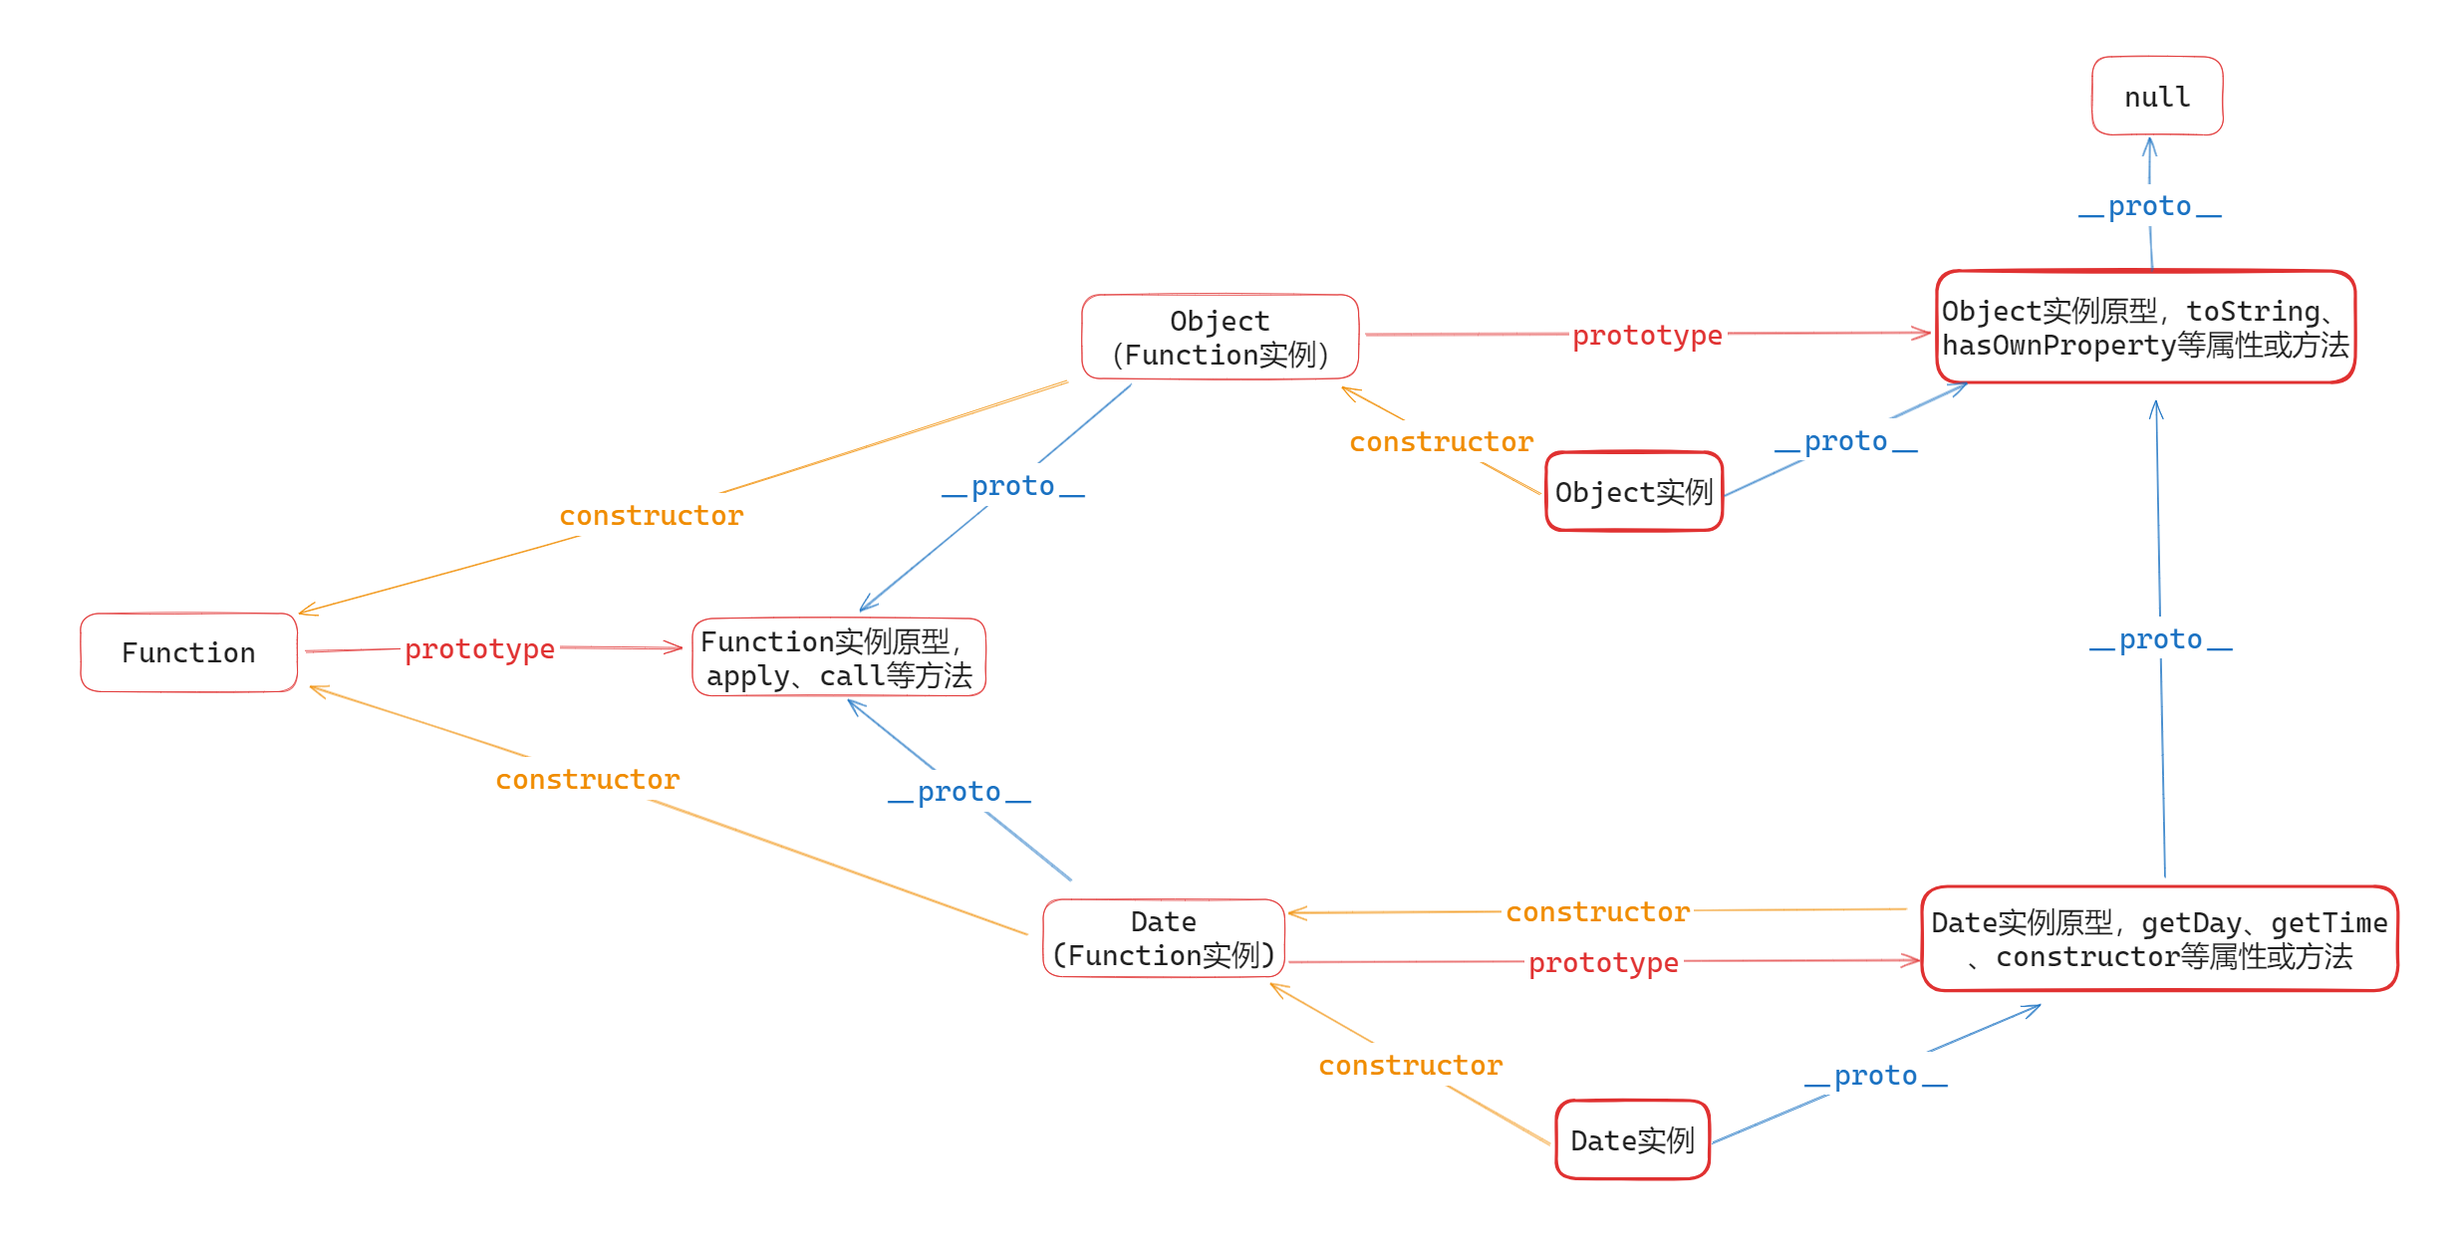
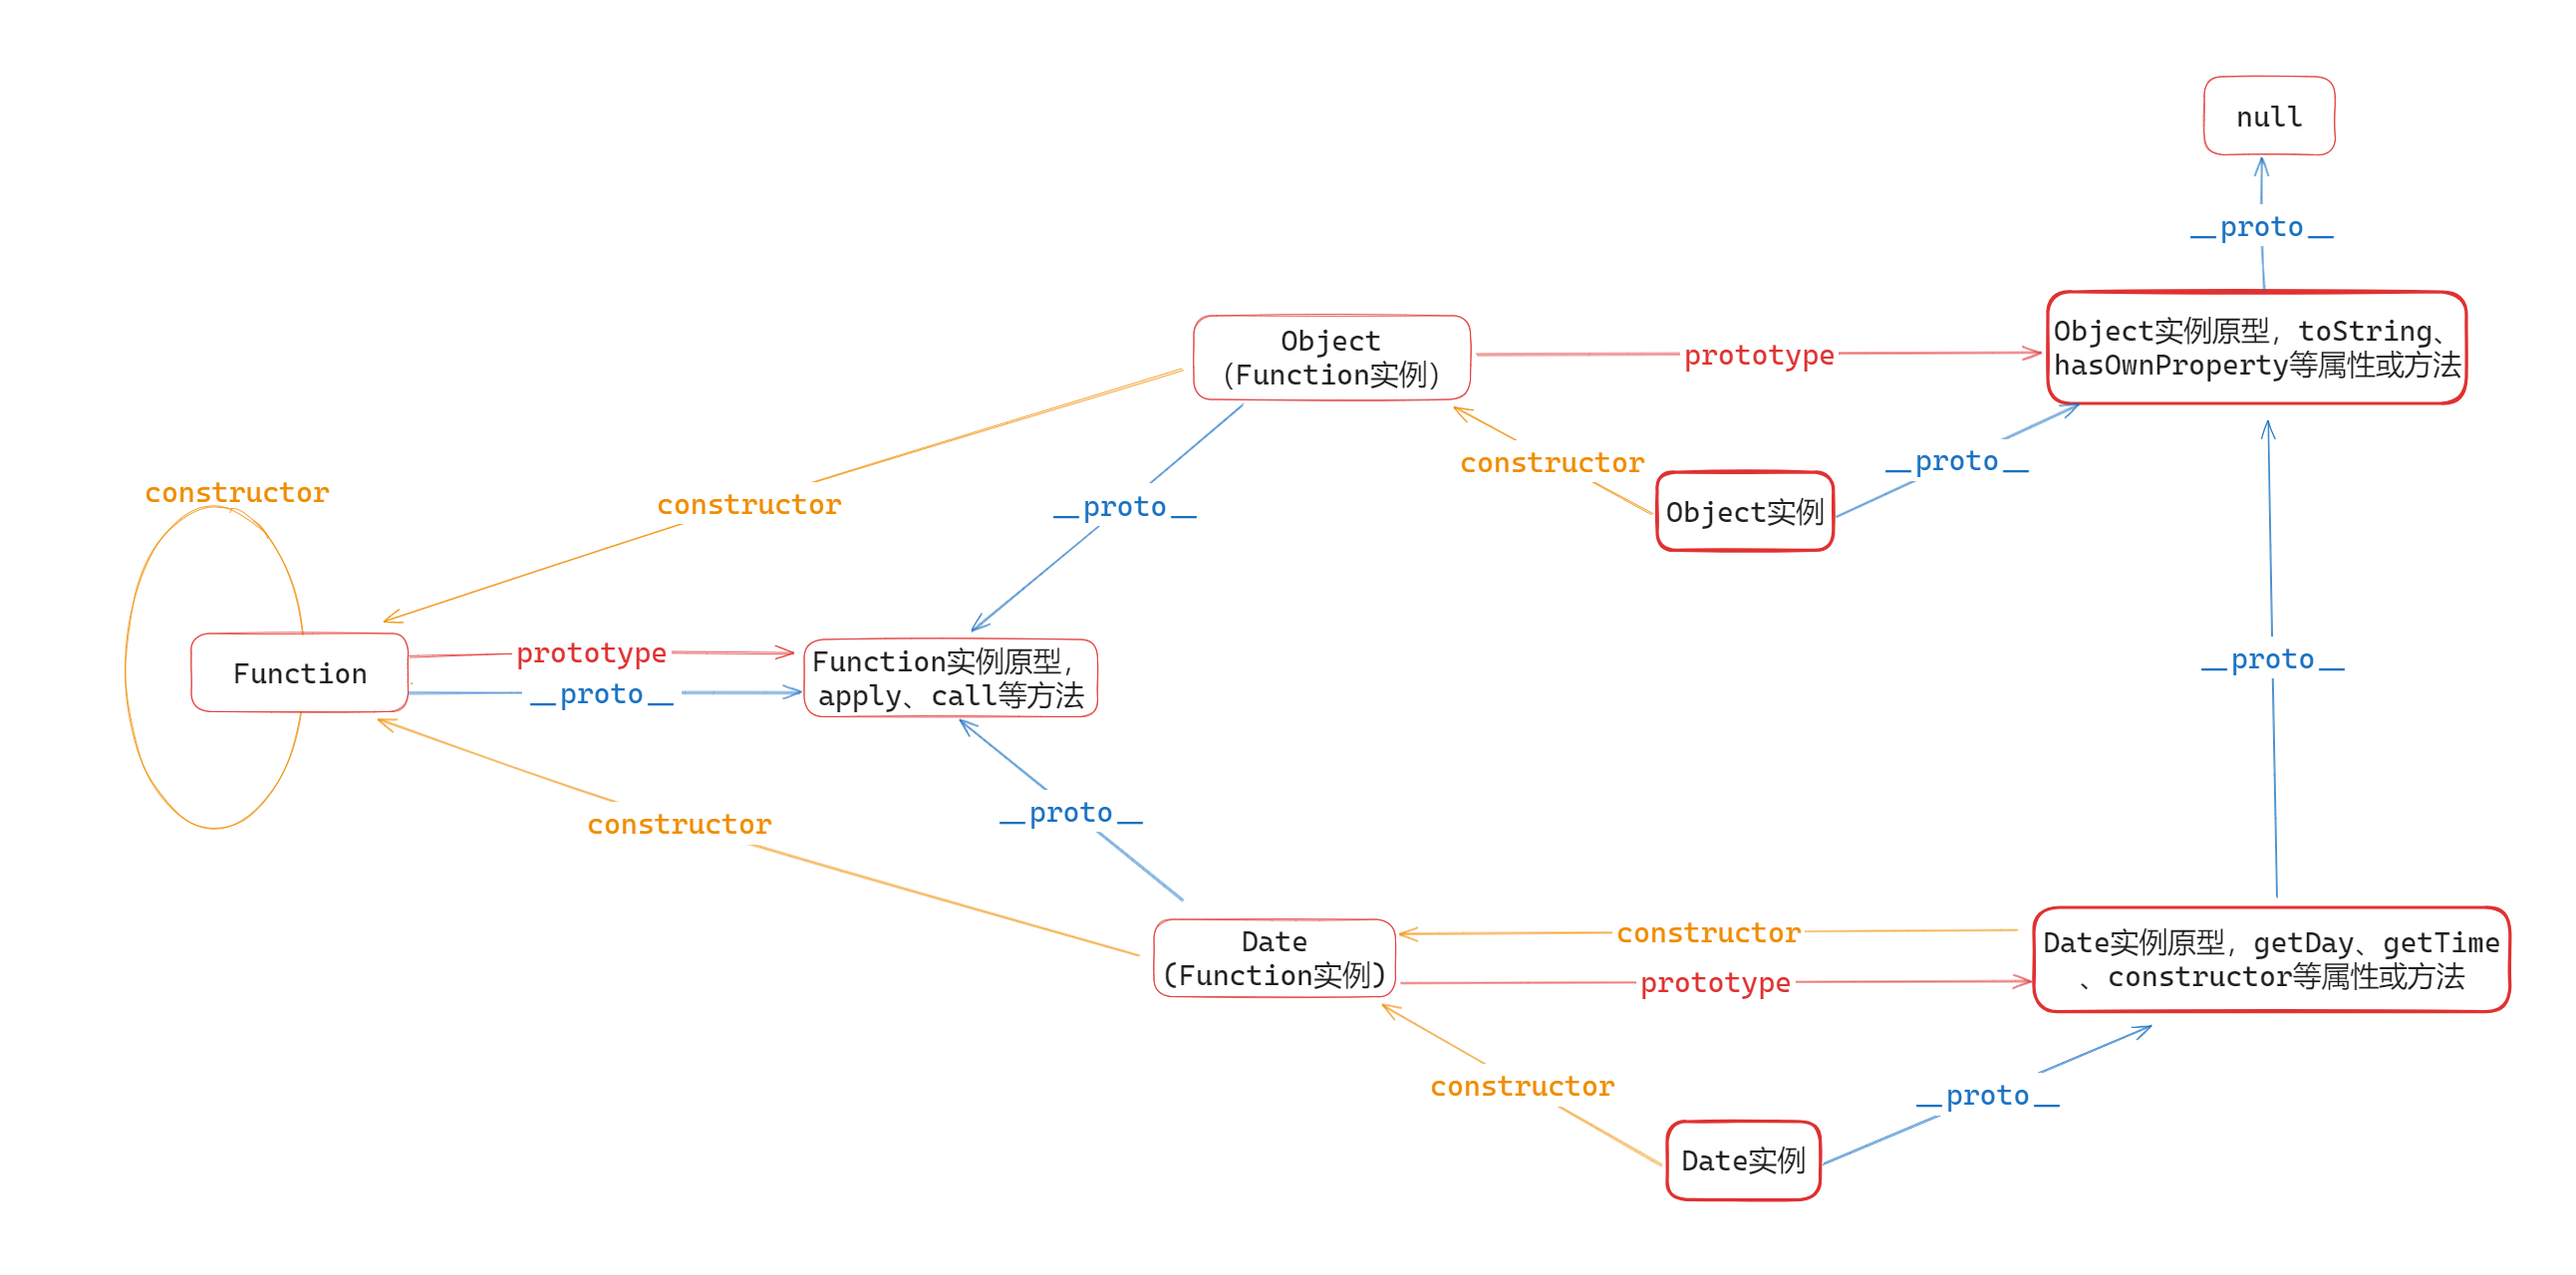
'feat:面试题-原型链'

diff --git a/source/_posts/面试题.md b/source/_posts/面试题.md
@@ -325,6 +325,11 @@ console.log(Date.prototype.constructor===date.constructor);
 console.log(Date.prototype.constructor===Date);
 console.log(Date.prototype.__proto__===Object.prototype);
 console.log(Date.prototype.__proto__===a.__proto__);
+//Function相关
+console.log(Function.prototype===Function.__proto__);
+console.log(Function.constructor === Function);
+const fn = function(){};
+console.log(Function.__proto__===fn.__proto__);
 ```
 # 手写题
 
